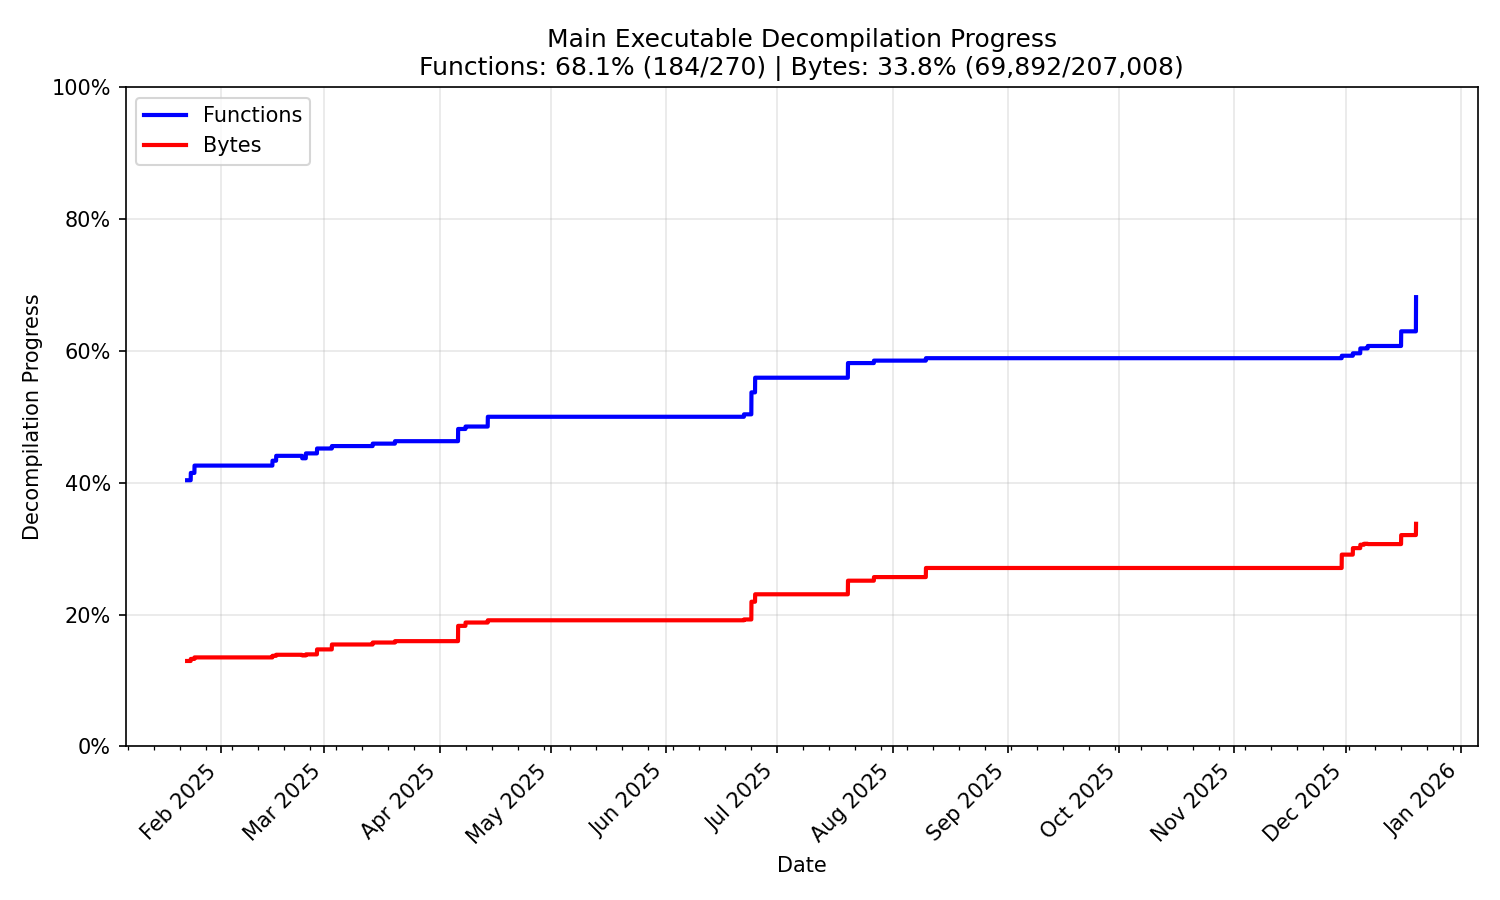
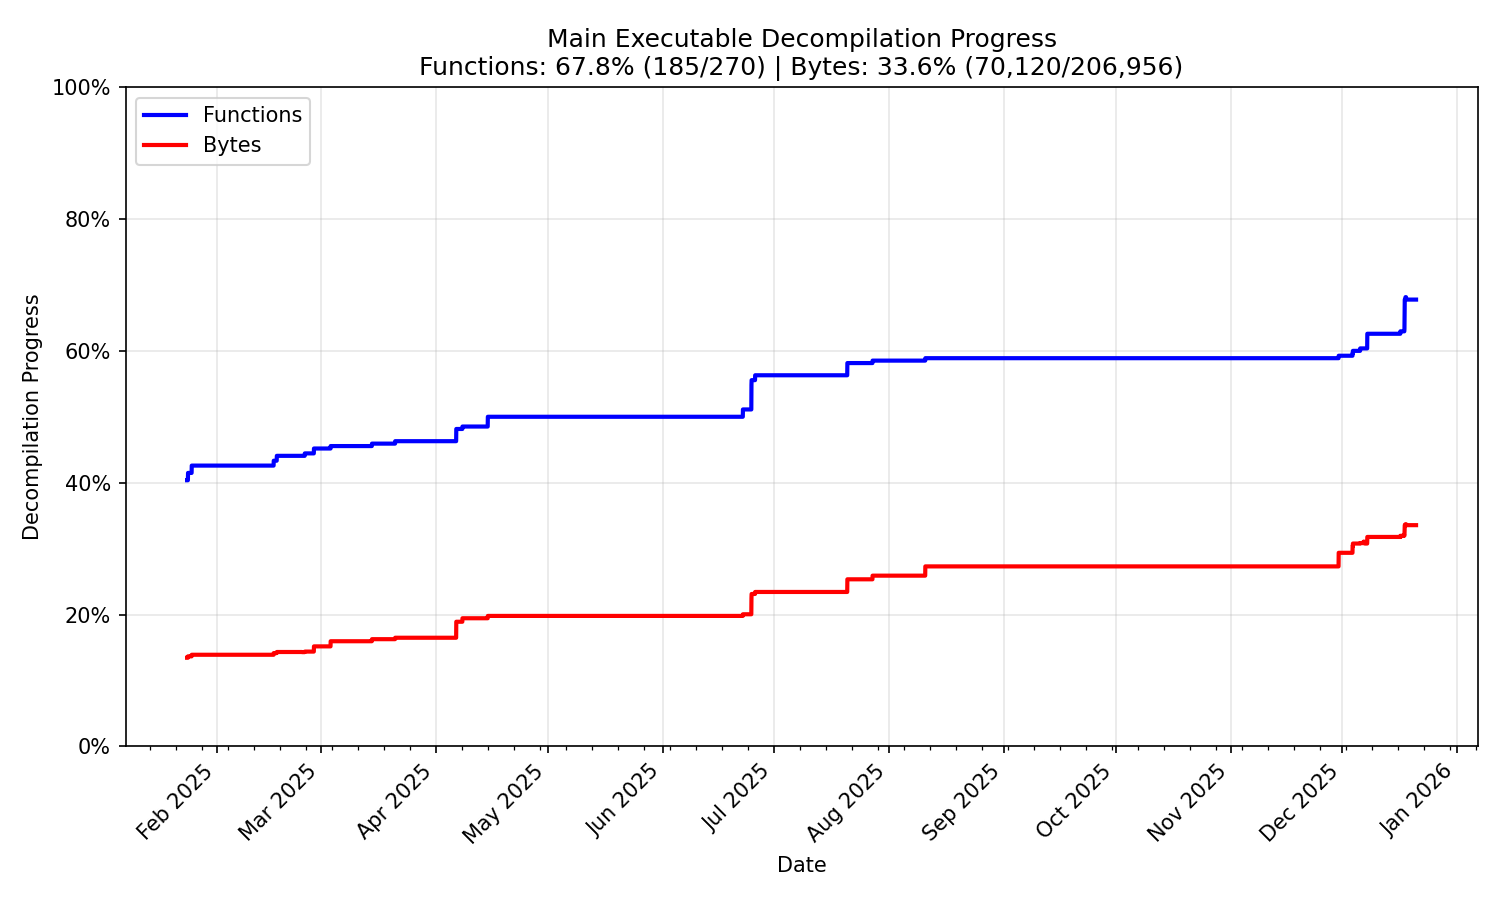
preserve commit timestamps in UTC

diff --git a/progress.py b/progress.py
@@ -112,8 +112,9 @@ commits = list(repo.iter_commits(paths='progress.md'))
 # Process each commit
 progress = []
 for commit in commits:
-    date = commit.committed_datetime
-    date = datetime.datetime(date.year, date.month, date.day, 0, 0, 0, tzinfo=datetime.timezone.utc)
+    # Preserve commit order by using the true commit timestamp (UTC) instead of
+    # truncating to midnight, otherwise multiple updates in a day can regress.
+    date = commit.committed_datetime.astimezone(datetime.timezone.utc)
 
     content = commit.tree / 'progress.md'
     content = content.data_stream.read().decode('utf-8')
@@ -144,7 +145,7 @@ for date in date_range:
     bytes_unmatched = 0
 
     for d, fm, fu, bm, bu in progress:
-        if d.date() <= date.date():
+        if d <= date:
             funcs_matched = fm
             funcs_unmatched = fu
             bytes_matched = bm
